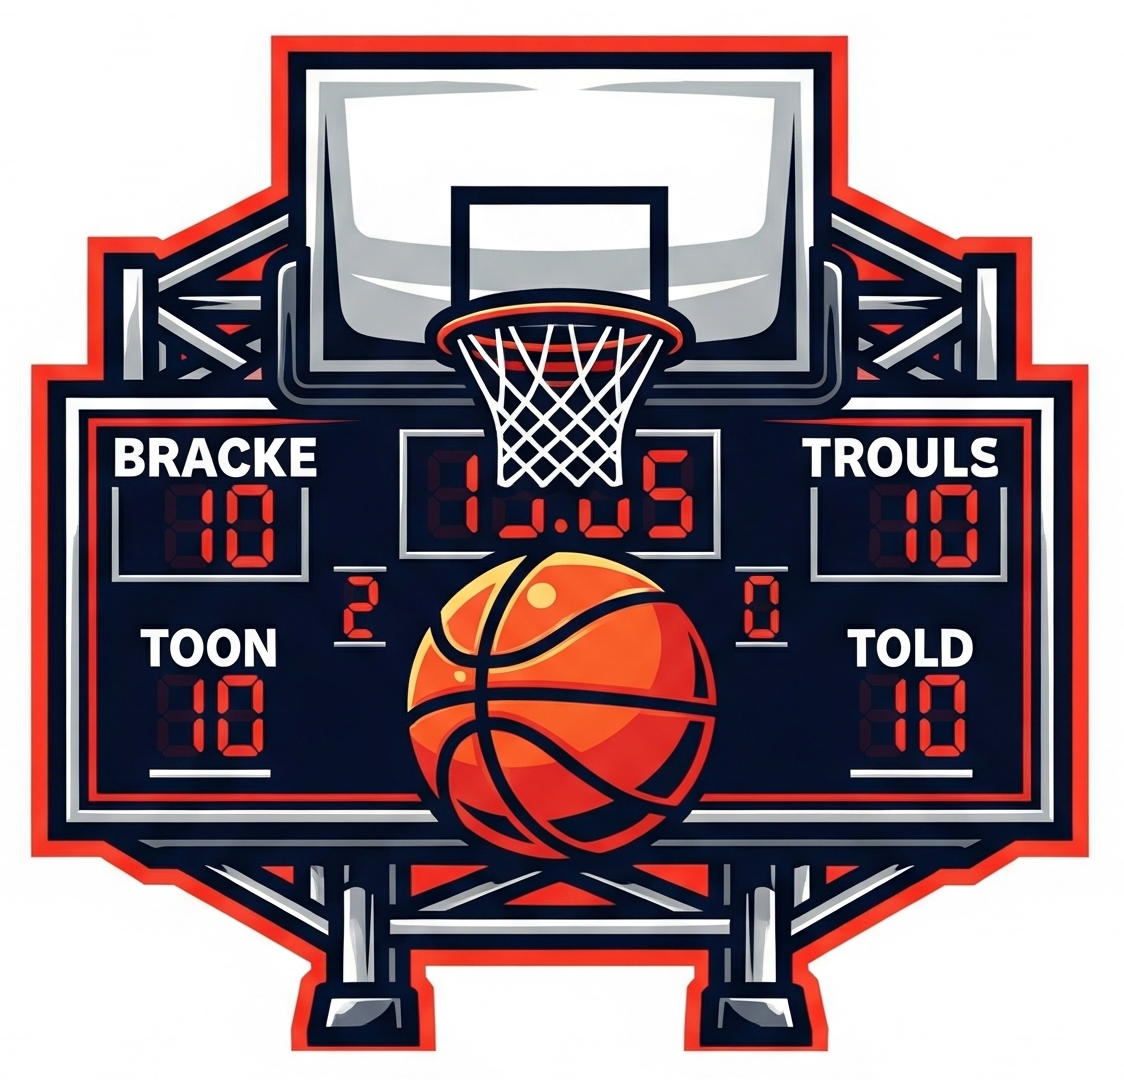
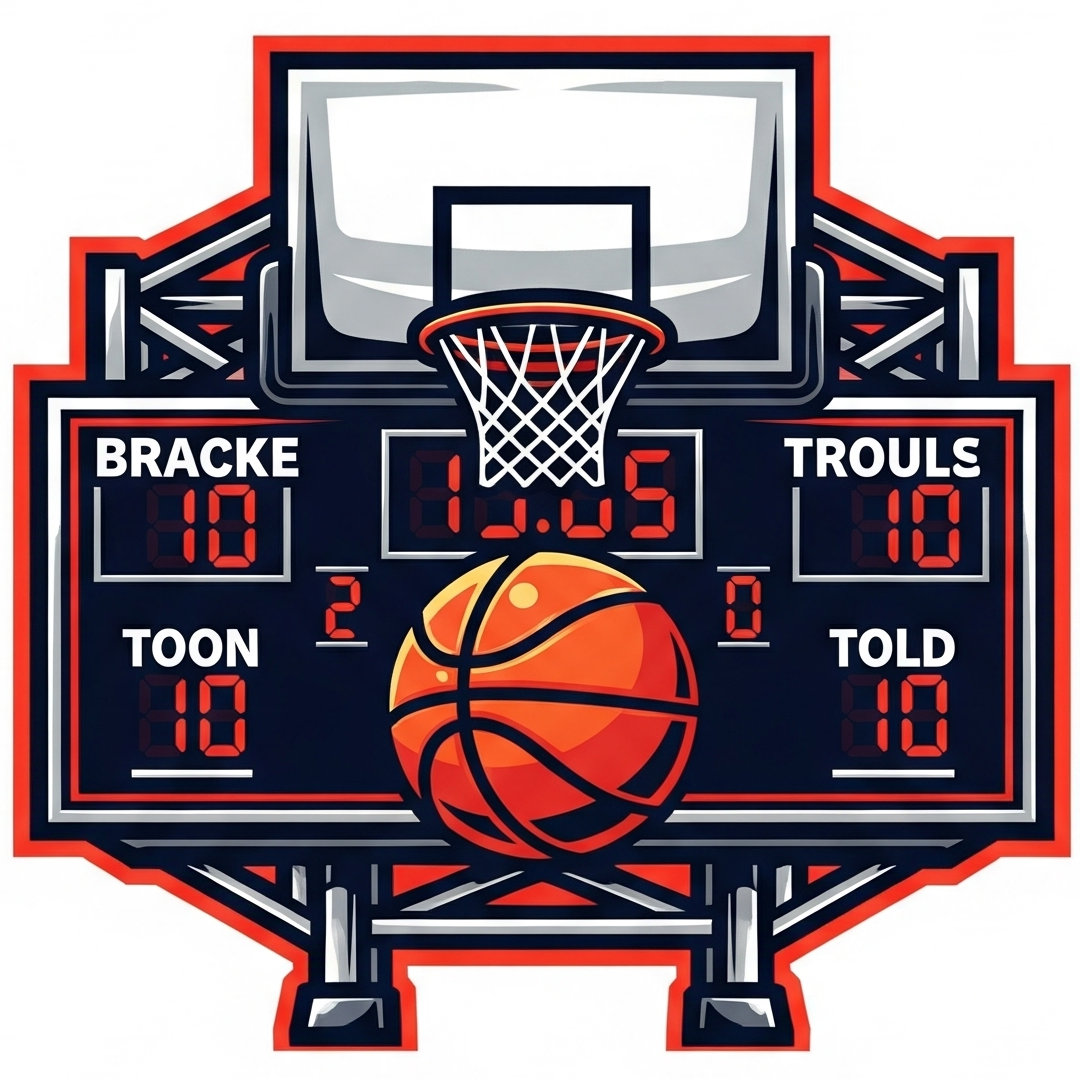
Merge pull request #54 from gladiadorhoops/dpecanha-dev
Fix homepage buttons and use feature-flag to check whether to show teams

Pull request: Fix homepage buttons and use feature-flag to check whether to show teams

diff --git a/angular-app/src/app/inicio/inicio.component.html b/angular-app/src/app/inicio/inicio.component.html
@@ -56,17 +56,19 @@
                 <br><br>
 
                 <div class="row">
-                    <button class="btn btn-outline-danger col-12 col-md-6" (click)="router.navigate(['/partidos'])">
-                        <h4>Resultados de Partidos</h4>
-                        <img width="100%" src="assets/ResultadosBnt.png" class="rounded" alt="Resultados de Partidos" >
-                    </button>
-                    <div class="col-12 col-md-1">
-                        <br>
+                    <div class="col-12 col-md-6" style="padding:3%">
+                        <button class="btn btn-outline-danger" (click)="router.navigate(['/partidos'])">
+                            <h4>Resultados de Partidos</h4>
+                            <img width="100%" src="assets/ResultadosBnt.png" class="rounded" alt="Resultados de Partidos" >
+                        </button>
                     </div>
-                    <button class="btn btn-outline-danger col-12 col-md-5" (click)="router.navigate(['/participantes'])">
-                        <h4>Equipos Registrados</h4>
-                        <img width="100%" src="assets/equipos_2025.jpeg" class="rounded" alt="Equipos" >
-                    </button>
+                    <div class="col-12 col-md-6" style="padding:3%">
+                        <button class="btn btn-outline-danger" (click)="router.navigate(['/participantes'])">
+                            <h4>Equipos Registrados</h4>
+                            <img width="100%" src="assets/equipos_2025.jpeg" class="rounded" alt="Equipos" >
+                        </button>
+                    </div>
+                    
                 </div>
             
                 <br><br>

diff --git a/angular-app/src/app/participants/participants.component.ts b/angular-app/src/app/participants/participants.component.ts
@@ -7,6 +7,8 @@ import { PlayerBuilder } from '../Builders/player-builder';
 import { DynamoDBClient } from '@aws-sdk/client-dynamodb';
 import { COGNITO_UNAUTHENTICATED_CREDENTIALS, REGION } from '../aws-clients/constants';
 import { Player } from '../interfaces/player';
+import { FeatureFlag } from '../interfaces/feature-flag';
+import { FeatureFlagBuilder } from '../Builders/feature-flag-builder';
 
 @Component({
   selector: 'app-participants',
@@ -22,17 +24,20 @@ export class ParticipantsComponent implements OnInit {
   constructor(
     private authService: AuthService,
     private teamBuilder: TeamBuilder,
-    private playerBuilder: PlayerBuilder
+    private playerBuilder: PlayerBuilder,
+    private featureFlagBuilder: FeatureFlagBuilder
   ){}
   
   
   ddb: DynamoDb =  new DynamoDb(this.ddbClient);
   loading = true;
-  available = true;
+  available = false;
   teams: Team[] = [];
   team: Team | undefined;
   players: Player[] = [];
   displayPlayers = "none;"
+
+  featureFlags: FeatureFlag | undefined = undefined
 
 
   async refreshTeams(){
@@ -42,6 +47,9 @@ export class ParticipantsComponent implements OnInit {
   }
 
   async ngOnInit() {
+    this.featureFlags = await this.featureFlagBuilder.getFeatureFlags(this.ddb);
+    this.available = this.featureFlags ? this.featureFlags.showParticipants : false;
+
     await this.refreshTeams();
     this.loading = false;
   }

diff --git a/angular-app/src/app/participants/participants.component.html b/angular-app/src/app/participants/participants.component.html
@@ -1,5 +1,5 @@
-<img src="assets/grupos_2025.jpeg" class="d-lg-block d-none w-100" alt="...">
-<mdb-carousel class="d-lg-none d-block" [controls]="true">
+<img  *ngIf="available"  src="assets/grupos_2025.jpeg" class="d-lg-block d-none w-100" alt="...">
+<mdb-carousel  *ngIf="available"  class="d-lg-none d-block" [controls]="true">
     <mdb-carousel-item>
       <img
         src="assets/grupos_aprendiz_2025.jpeg"